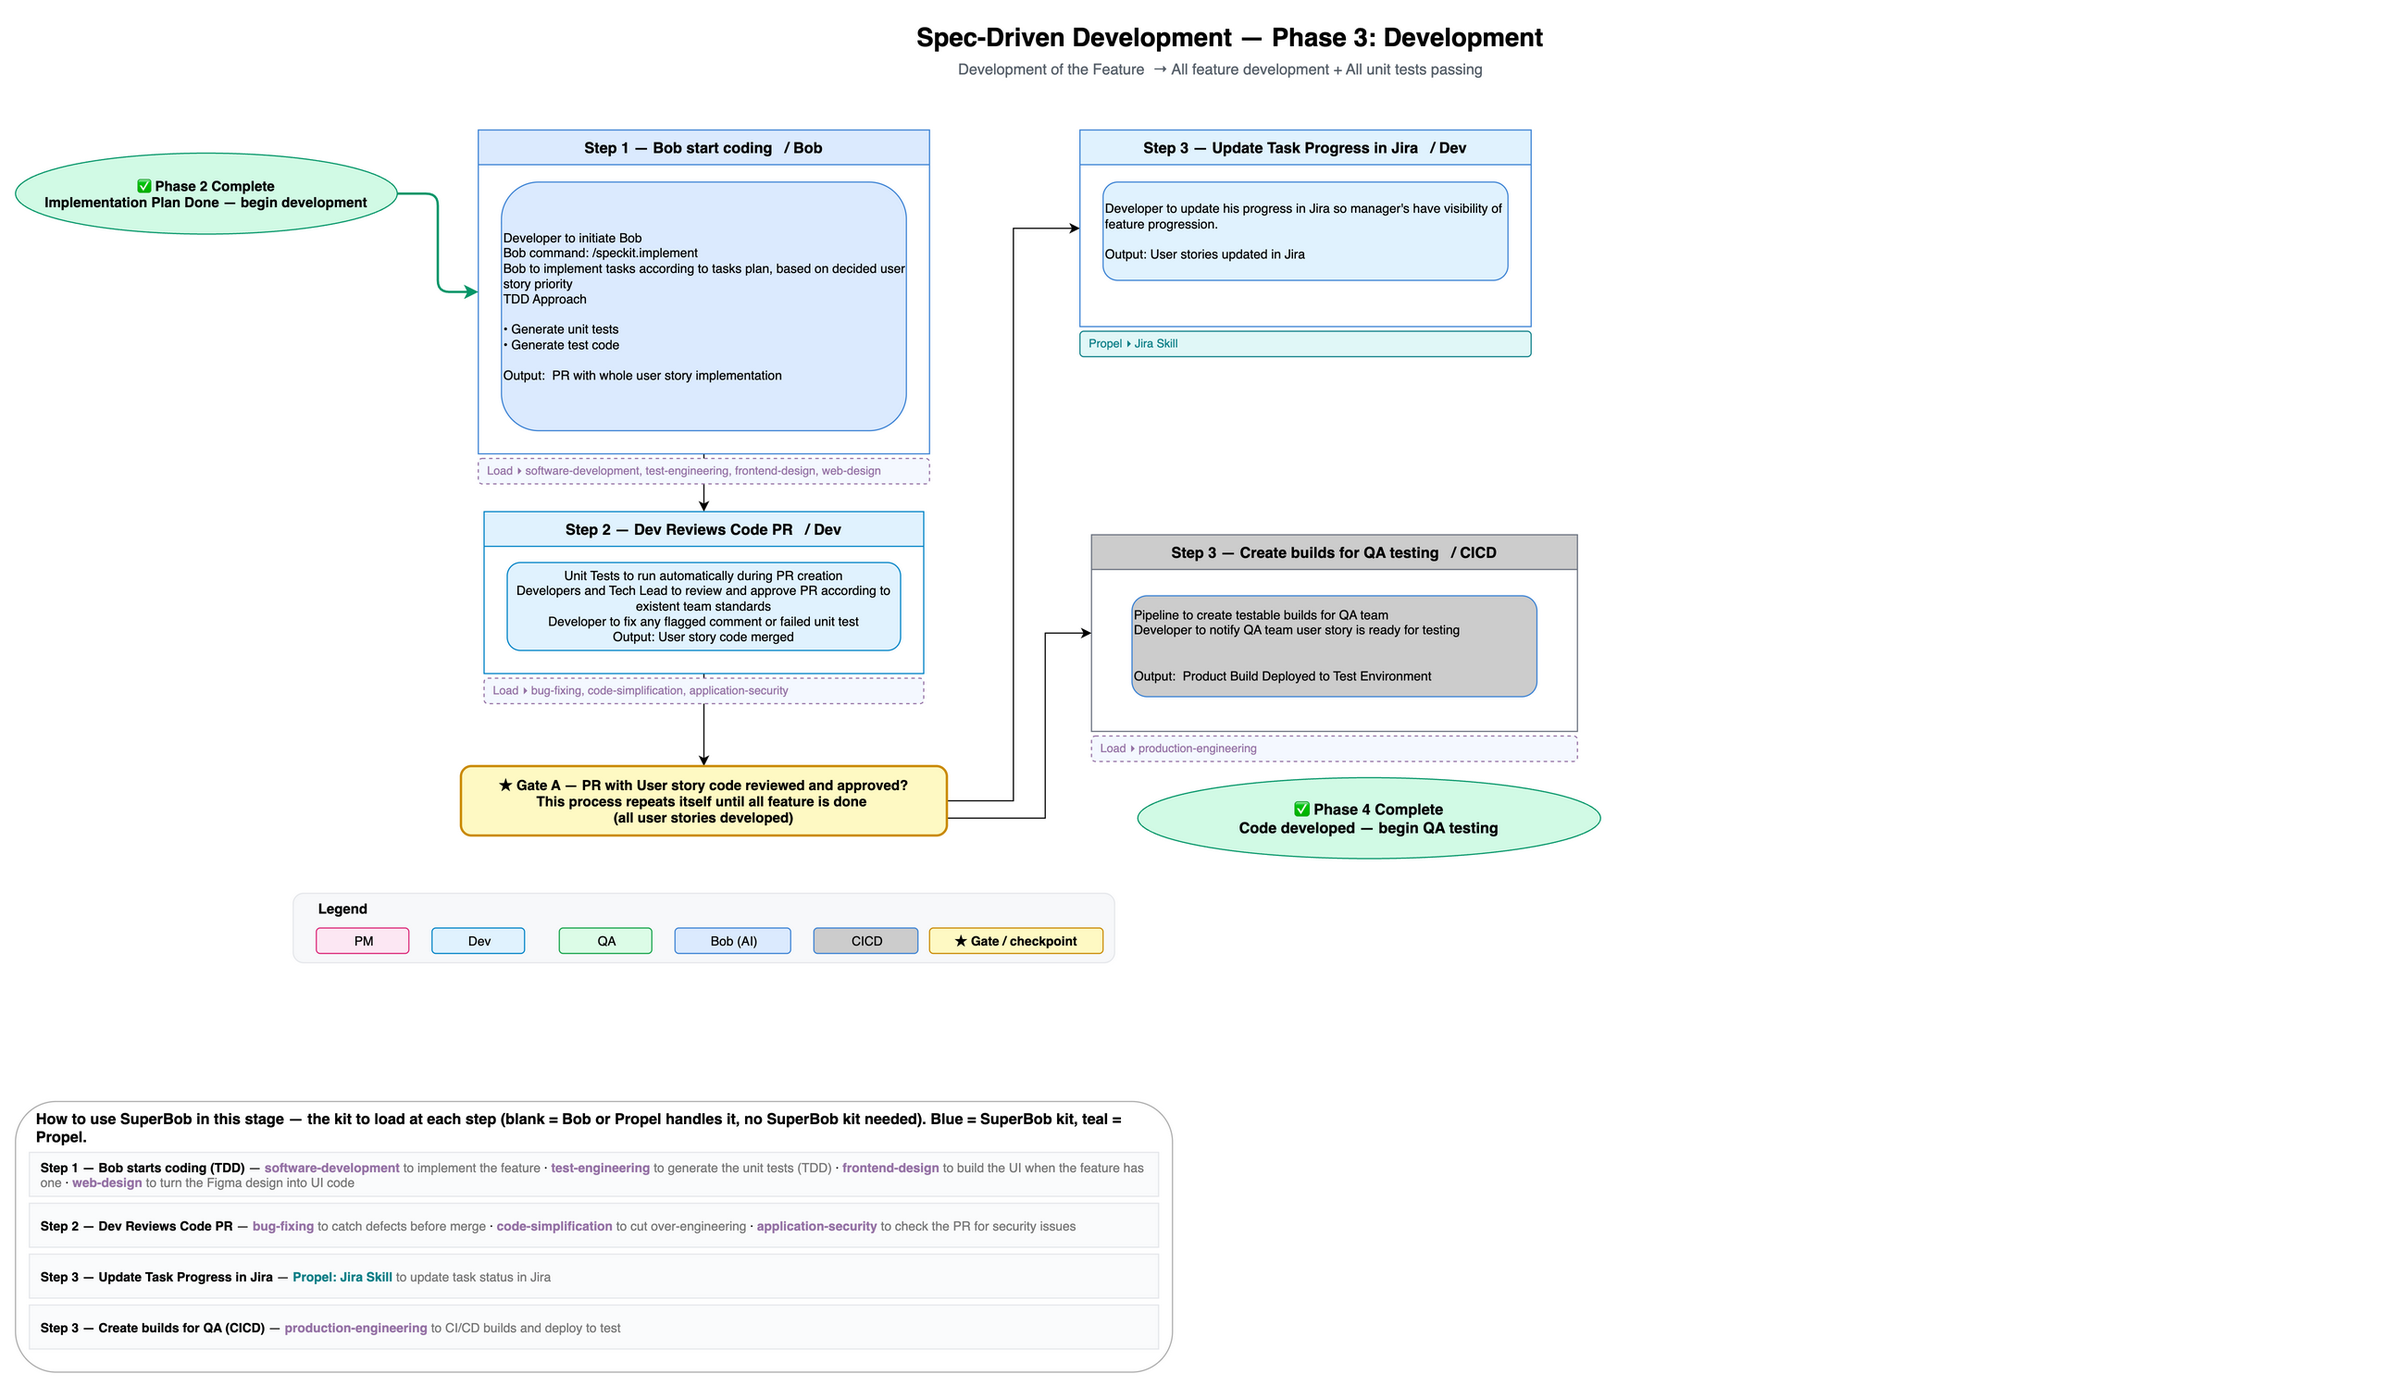
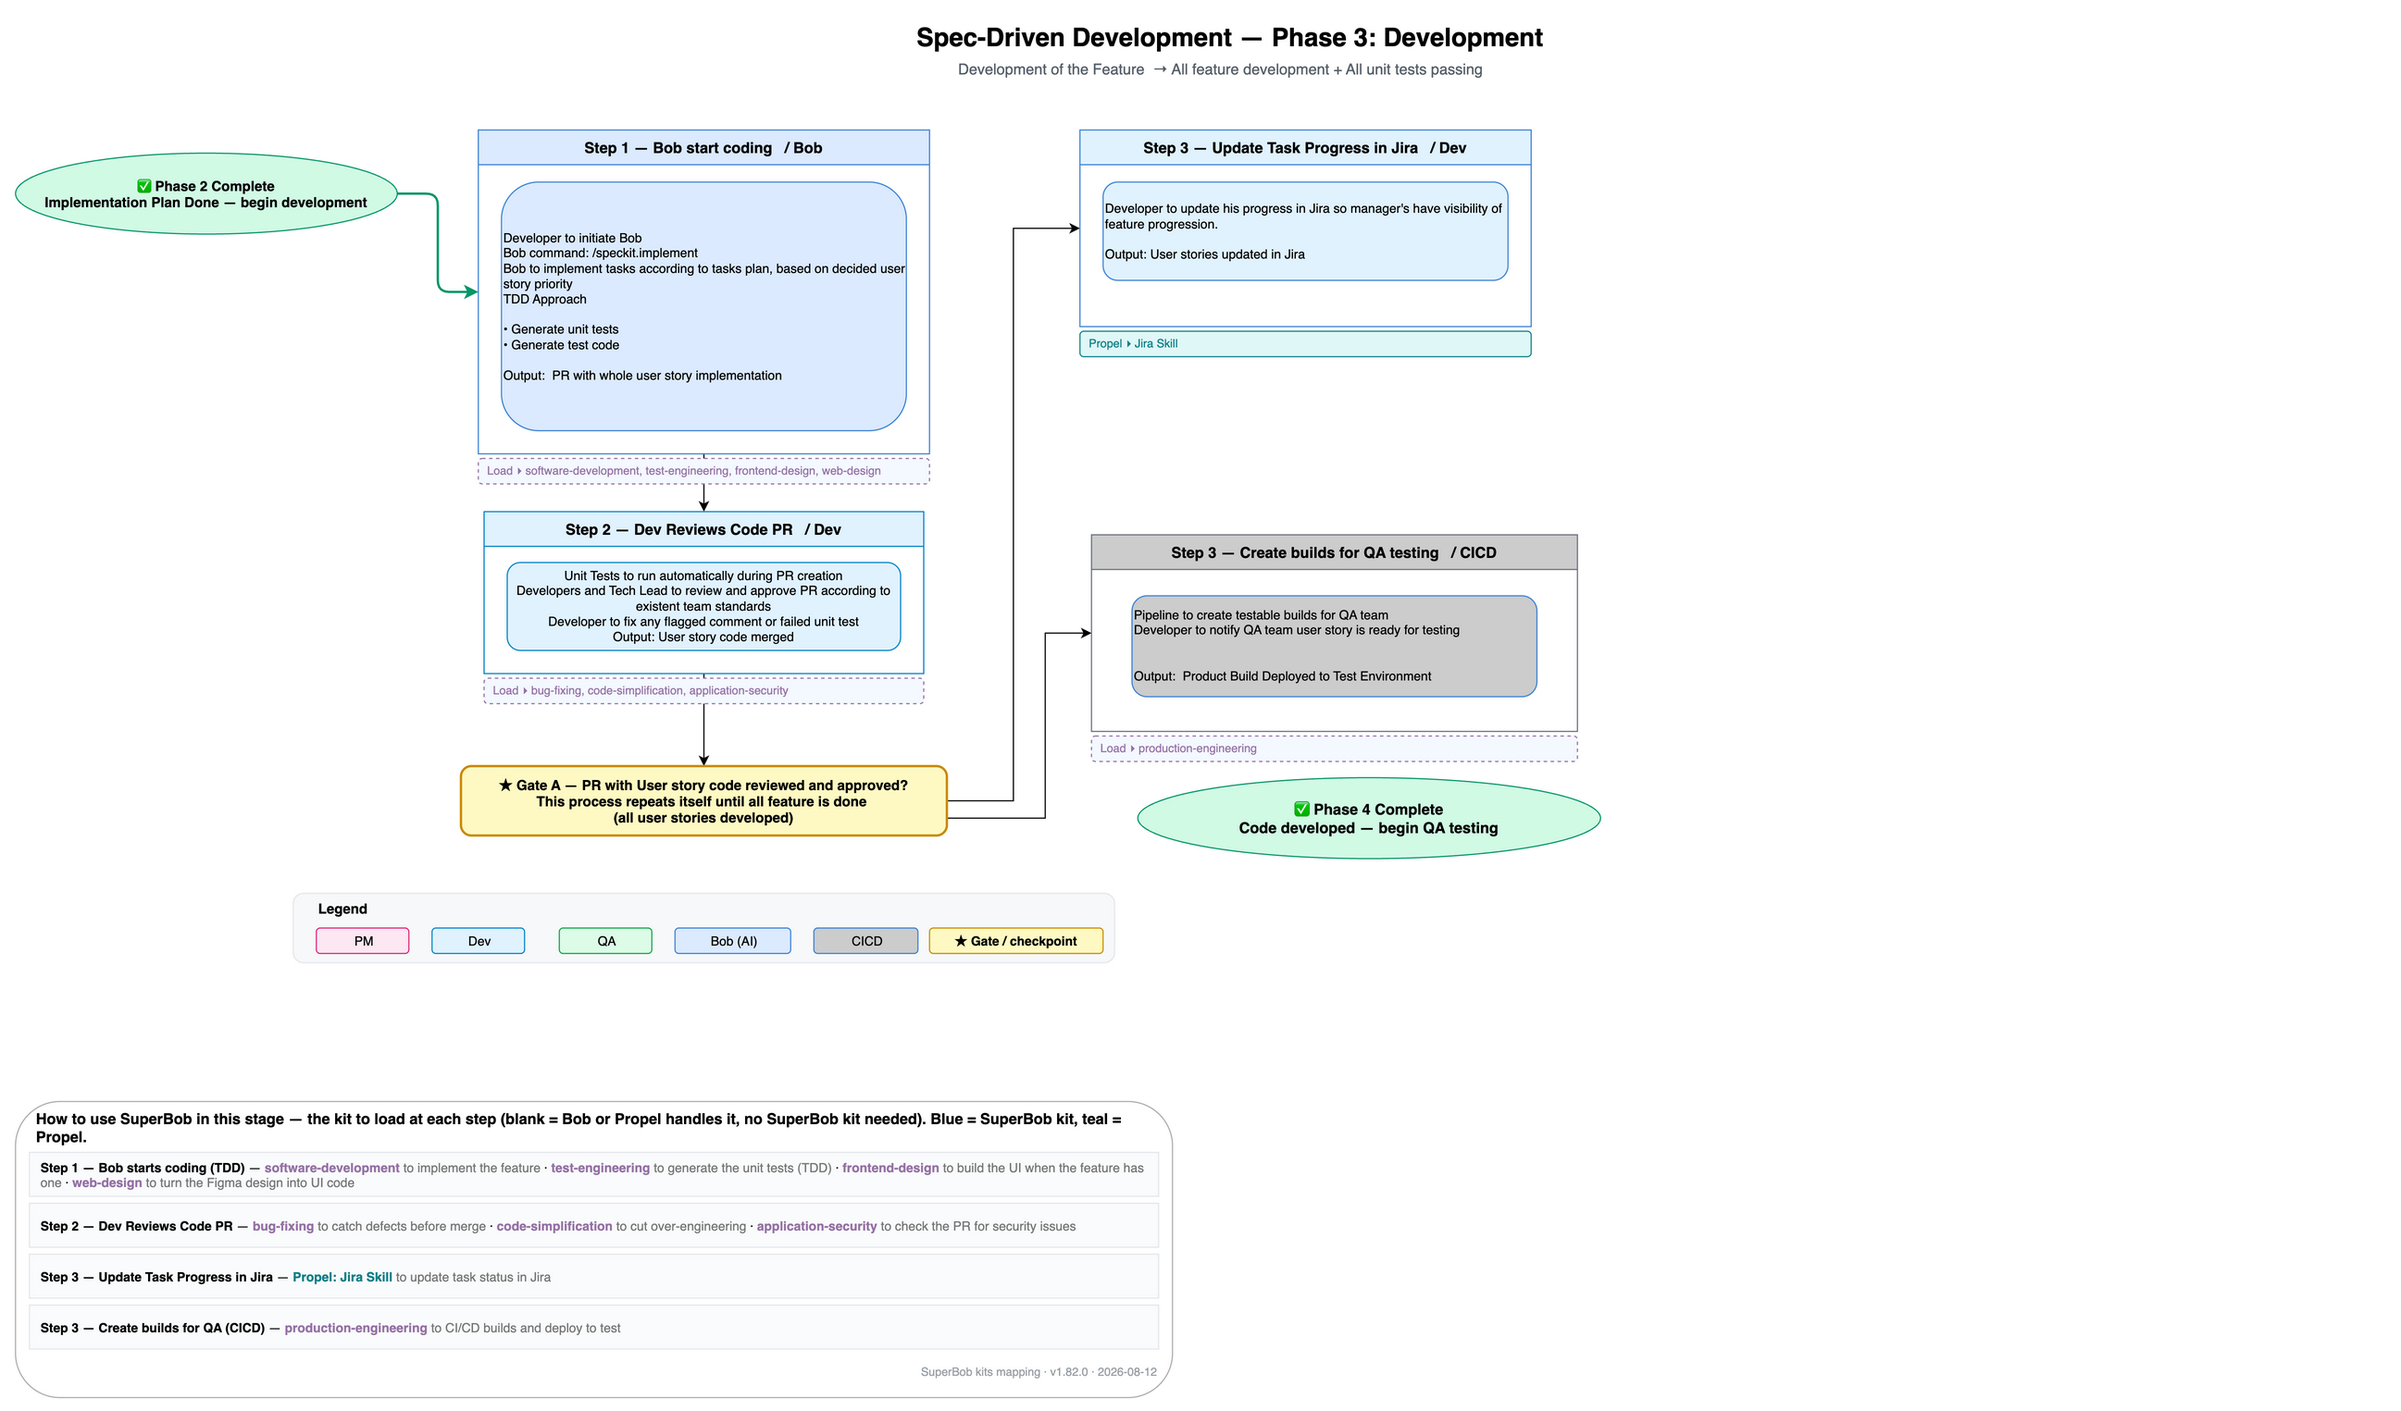
SuperBob: version-stamp the lifecycle diagram + 2 end-to-end overview tabs, v1.82.0
- Every diagram page now carries a version stamp (SuperBob kits mapping ·
  vX.Y.Z · date); the in-panel viewer header shows the version as a badge.
- Two new overview tabs show the process end-to-end:
    · Overview — Phases: Input → 5 colour-coded phases (purpose + output) →
      shipped feature.
    · Overview — Tools: matrix of every SuperBob kit (blue) and Propel tool
      (teal) used per phase, aggregated honestly from the step mapping.
  Both sort to the top of the viewer (00a/00b) and are the last two .drawio tabs.
- gen_kits_layer.py: takes version + date args, builds the stamp and both
  overview pages from the same mapping so they never drift.

diff --git a/superbob/vsix/extension/extension.js b/superbob/vsix/extension/extension.js
@@ -1414,6 +1414,8 @@ const DIAGRAM_DIR = () => path.join(HOME, '.bob', 'diagram');            // writ
 function bundledDiagramDir(context) { return path.join(context.extensionPath, 'diagram'); }
 // filename (without .png) -> friendly page title
 const DIAGRAM_TITLES = {
+  '00a-overview-phases': 'Overview — Phases (end-to-end)',
+  '00b-overview-tools': 'Overview — Tools (kits & Propel, end-to-end)',
   '01-phase1-spec-creation': 'Phase 1 — Spec Creation',
   '02-tooling-spec-creation': 'Tooling — Spec Creation',
   '03-phase2-implementation-planning': 'Phase 2 — Implementation Planning',
@@ -1439,12 +1441,14 @@ function openDiagramPanel(context) {
     const base = f.replace(/\.png$/, '');
     return { title: DIAGRAM_TITLES[base] || base, uri: diagramPanel.webview.asWebviewUri(vscode.Uri.file(path.join(pagesDir, f))).toString() };
   });
-  diagramPanel.webview.html = diagramHtml(diagramPanel.webview, imgs);
+  let ver = ''; try { ver = require(path.join(context.extensionPath, 'package.json')).version; } catch (e) {}
+  diagramPanel.webview.html = diagramHtml(diagramPanel.webview, imgs, ver);
   diagramPanel.webview.onDidReceiveMessage(m => handleMessage(m, context));
   diagramPanel.onDidDispose(() => { diagramPanel = null; }, null, context.subscriptions);
 }
-function diagramHtml(webview, imgs) {
+function diagramHtml(webview, imgs, ver) {
   const nonce = 'sbd' + Date.now();
+  const vlabel = ver ? ('v' + esc(ver)) : '';
   const pages = imgs.length ? imgs.map(im =>
     `<figure><figcaption>${esc(im.title)}</figcaption><img src="${im.uri}" alt="${esc(im.title)}"/></figure>`
   ).join('\n') : `<p class="muted">Diagram images were not found in this build.</p>`;
@@ -1453,6 +1457,7 @@ function diagramHtml(webview, imgs) {
 <style>
   body{font-family:var(--vscode-font-family);color:var(--vscode-foreground);margin:0;padding:22px 26px;line-height:1.5;font-size:14px}
   h1{font-size:1.4rem;margin:0 0 4px} .tag{color:var(--vscode-descriptionForeground);margin:0 0 14px}
+  .ver{font-size:.7rem;font-weight:600;color:var(--vscode-descriptionForeground);border:1px solid var(--vscode-widget-border,#444);border-radius:10px;padding:1px 8px;vertical-align:middle;margin-left:8px}
   .bar{display:flex;gap:8px;flex-wrap:wrap;align-items:center;margin:0 0 16px}
   button{font:inherit;padding:5px 11px;border-radius:6px;border:1px solid var(--vscode-button-border,transparent);background:var(--vscode-button-background);color:var(--vscode-button-foreground);cursor:pointer}
   button.sec{background:var(--vscode-button-secondaryBackground);color:var(--vscode-button-secondaryForeground)}
@@ -1464,8 +1469,8 @@ function diagramHtml(webview, imgs) {
   .note{background:var(--vscode-editorWidget-background);border-left:3px solid var(--vscode-charts-blue,#3794ff);border-radius:0 6px 6px 0;padding:9px 13px;margin:0 0 16px;font-size:13px}
   .muted{color:var(--vscode-descriptionForeground)}
 </style></head><body>
-  <h1>SuperBob across the delivery lifecycle</h1>
-  <p class="tag">The Spec-Driven Development flow, with the SuperBob kit to load at each step mapped in.</p>
+  <h1>SuperBob across the delivery lifecycle ${vlabel ? '<span class="ver">' + vlabel + '</span>' : ''}</h1>
+  <p class="tag">The Spec-Driven Development flow, with the SuperBob kit to load at each step mapped in. The two <b>Overview</b> pages up top show the whole process end-to-end — phases, then all kits &amp; tools.</p>
   <div class="bar">
     <button id="openFile">Open the editable .drawio ↗</button>
     <span class="legend"><span class="swatch" style="background:#f4f8ff;border-color:#6c8ebf"></span>blue dashed = SuperBob kit to load

diff --git a/superbob/tools/gen_kits_layer.py b/superbob/tools/gen_kits_layer.py
@@ -1,8 +1,20 @@
 import sys,re,html
 src,dst=sys.argv[1],sys.argv[2]
+VERSION=sys.argv[3] if len(sys.argv)>3 else '1.82.0'
+DATE=sys.argv[4] if len(sys.argv)>4 else '2026-08-12'
+STAMP=f'SuperBob kits mapping &#183; v{VERSION} &#183; {DATE}'
 xml=open(src,encoding='utf8').read()
 SBCOL={'Phase 1':'#6c8ebf','Phase 2':'#82b366','Phase 2.1':'#d79b00','Phase 3':'#9673a6','Phase 4':'#b85450'}
 PST='#0e8088'
+PORDER=['Phase 1','Phase 2','Phase 2.1','Phase 3','Phase 4']
+PNAME={'Phase 1':'Phase 1 — Spec Creation','Phase 2':'Phase 2 — Implementation Planning','Phase 2.1':'Phase 2.1 — QA Planning','Phase 3':'Phase 3 — Development','Phase 4':'Phase 4 — QA Test Execution'}
+PH_META={
+ 'Phase 1':('Turn a PM brief into a unified, dev + QA-approved spec via Bob interrogation.','Final Approved Spec'),
+ 'Phase 2':('Bob drafts the implementation plan; dev reviews; work is broken into Jira tasks.','Tasks in Jira'),
+ 'Phase 2.1':('QA agent drafts test plans & cases; QA reviews; uploaded to TestRail.','Test cases in TestRail'),
+ 'Phase 3':('Bob codes test-first; devs review PRs; CI/CD builds for QA.','Builds for QA'),
+ 'Phase 4':('Automated tests authored & run; devs fix failures; results logged.','Ship / no-ship decision'),
+}
 def pkey(name):
     n=name.lower()
     if 'spec creation' in n or name.startswith('Phase 1'): return 'Phase 1'
@@ -98,9 +110,9 @@ def proc(mm):
             if g: xs.append(g[0]); bt.append(g[1]+g[3])
     x0=int(min(xs)) if xs else 40
     y0=int(max(bt))+120 if bt else 40
-    W=1000; rowh=44; head=44
+    W=1000; rowh=44; head=44; foot=22
     Cm=[f'<mxCell id="{mLid}" value="How to use SuperBob" style="locked=0;" parent="{rootId}" />',
-        f'<mxCell id="{mLid}_bg" value="" style="rounded=1;fillColor=#ffffff;strokeColor=#999999;opacity=80;" vertex="1" parent="{mLid}"><mxGeometry x="{x0}" y="{y0}" width="{W}" height="{head+rowh*len(rules)+14}" as="geometry"/></mxCell>',
+        f'<mxCell id="{mLid}_bg" value="" style="rounded=1;fillColor=#ffffff;strokeColor=#999999;opacity=80;" vertex="1" parent="{mLid}"><mxGeometry x="{x0}" y="{y0}" width="{W}" height="{head+rowh*len(rules)+14+foot}" as="geometry"/></mxCell>',
         f'<mxCell id="{mLid}_h" value="How to use SuperBob in this stage — the kit to load at each step (blank = Bob or Propel handles it, no SuperBob kit needed).  Blue = SuperBob kit, teal = Propel." style="text;html=1;fontStyle=1;fontSize=13;align=left;verticalAlign=middle;whiteSpace=wrap;strokeColor=none;fillColor=none;" vertex="1" parent="{mLid}"><mxGeometry x="{x0+16}" y="{y0+8}" width="{W-32}" height="30" as="geometry"/></mxCell>']
     for i,(_,step,kits,prop) in enumerate(rules):
         ry=y0+head+i*rowh; parts=[]
@@ -110,7 +122,56 @@ def proc(mm):
         raw=f'<b>{step}</b> &#8212; {line}'
         val=html.escape(raw, quote=True)
         Cm.append(f'<mxCell id="{mLid}_r{i}" value="{val}" style="text;html=1;fontSize=11;align=left;verticalAlign=middle;whiteSpace=wrap;strokeColor=#e5e7eb;fillColor=#fafbfc;spacingLeft=8;spacingRight=8;spacingTop=2;" vertex="1" parent="{mLid}"><mxGeometry x="{x0+12}" y="{int(ry)}" width="{W-24}" height="{rowh-6}" as="geometry"/></mxCell>')
+    verY=y0+head+rowh*len(rules)+6
+    Cm.append(f'<mxCell id="{mLid}_ver" value="{STAMP}" style="text;html=1;fontSize=10;fontColor=#9aa0a6;align=right;verticalAlign=middle;strokeColor=none;fillColor=none;" vertex="1" parent="{mLid}"><mxGeometry x="{x0+12}" y="{int(verY)}" width="{W-24}" height="16" as="geometry"/></mxCell>')
     layer='\n        '+'\n        '.join(S+P+Cm)+'\n      '
     return f'{openTag}{re.sub(r"</root>",layer+"</root>",body,count=1)}</diagram>'
-open(dst,'w',encoding='utf8').write(re.sub(r'(<diagram[^>]*name=")([^"]*)("[^>]*>)(.*?)</diagram>', proc, xml, flags=re.S))
-print("wrote:",dst,"| pages:",pi[0])
+def agg(pk):
+    kits=[]; props=[]
+    for (_,_,ks,ps) in M[pk]:
+        for k,_ in ks:
+            if k not in kits: kits.append(k)
+        for k,_ in ps:
+            if k not in props: props.append(k)
+    return kits,props
+def E(raw): return html.escape(raw, quote=True)
+def phases_page():
+    c=['<mxCell id="0"/>','<mxCell id="1" parent="0"/>']
+    c.append(f'<mxCell id="t" value="{E("Spec-Driven Development — End-to-End Phases")}" style="text;html=1;fontStyle=1;fontSize=20;align=center;" vertex="1" parent="1"><mxGeometry x="40" y="22" width="1620" height="32" as="geometry"/></mxCell>')
+    c.append(f'<mxCell id="ts" value="{E("Input → five phases → shipped feature. Each phase output feeds the next. Colour = phase.")}" style="text;html=1;fontSize=13;fontColor=#666;align=center;" vertex="1" parent="1"><mxGeometry x="40" y="56" width="1620" height="22" as="geometry"/></mxCell>')
+    y=140; h=155; bw=220; gap=40; x=40
+    c.append(f'<mxCell id="in" value="{E("<b>Input</b><br>Jira Capability")}" style="rounded=1;whiteSpace=wrap;html=1;fillColor=#f5f5f5;strokeColor=#999999;fontSize=12;" vertex="1" parent="1"><mxGeometry x="{x}" y="{y+48}" width="120" height="60" as="geometry"/></mxCell>')
+    prev='in'; x+=120+gap
+    for i,pk in enumerate(PORDER):
+        col=SBCOL[pk]; purpose,output=PH_META[pk]; pid=f'p{i}'
+        raw=f'<b><font color="{col}">{PNAME[pk]}</font></b><br><br>{purpose}<br><br><b>&#8594; {output}</b>'
+        c.append(f'<mxCell id="{pid}" value="{E(raw)}" style="rounded=1;whiteSpace=wrap;html=1;fillColor=#ffffff;strokeColor={col};fontSize=12;align=left;spacingLeft=10;spacingRight=10;verticalAlign=top;spacingTop=10;" vertex="1" parent="1"><mxGeometry x="{x}" y="{y}" width="{bw}" height="{h}" as="geometry"/></mxCell>')
+        c.append(f'<mxCell id="e{i}" style="edgeStyle=orthogonalEdgeStyle;html=1;rounded=0;strokeColor=#999999;endArrow=block;endFill=1;" edge="1" parent="1" source="{prev}" target="{pid}"><mxGeometry relative="1" as="geometry"/></mxCell>')
+        prev=pid; x+=bw+gap
+    c.append(f'<mxCell id="out" value="{E("<b>Shipped</b><br>Feature")}" style="rounded=1;whiteSpace=wrap;html=1;fillColor=#d5e8d4;strokeColor=#82b366;fontSize=12;" vertex="1" parent="1"><mxGeometry x="{x}" y="{y+48}" width="120" height="60" as="geometry"/></mxCell>')
+    c.append(f'<mxCell id="eout" style="edgeStyle=orthogonalEdgeStyle;html=1;strokeColor=#999999;endArrow=block;endFill=1;" edge="1" parent="1" source="{prev}" target="out"><mxGeometry relative="1" as="geometry"/></mxCell>')
+    c.append(f'<mxCell id="ver" value="{STAMP}" style="text;html=1;fontSize=10;fontColor=#9aa0a6;align=right;" vertex="1" parent="1"><mxGeometry x="40" y="{y+h+34}" width="1620" height="16" as="geometry"/></mxCell>')
+    return '<diagram name="Overview — Phases" id="ov-phases"><mxGraphModel dx="1600" dy="900" grid="0" gridSize="10" guides="1" tooltips="1" connect="1" arrows="1" fold="1" page="1" pageScale="1" pageWidth="1700" pageHeight="560" math="0" shadow="0"><root>'+''.join(c)+'</root></mxGraphModel></diagram>'
+def tools_page():
+    c=['<mxCell id="0"/>','<mxCell id="1" parent="0"/>']
+    c.append(f'<mxCell id="t" value="{E("Tooling Across the Lifecycle — Kits & Tools End to End")}" style="text;html=1;fontStyle=1;fontSize=20;align=center;" vertex="1" parent="1"><mxGeometry x="40" y="22" width="1460" height="32" as="geometry"/></mxCell>')
+    c.append(f'<mxCell id="ts" value="{E("Every SuperBob kit (blue) and Propel tool (teal) a team loads at each phase. Blank = handled by Bob / Propel, no kit needed.")}" style="text;html=1;fontSize=13;fontColor=#666;align=center;" vertex="1" parent="1"><mxGeometry x="40" y="56" width="1460" height="22" as="geometry"/></mxCell>')
+    X0=40; wP=240; wK=740; wR=480; hy=100; hh=32
+    def cell(cid,x,w,y,ht,val,style): c.append(f'<mxCell id="{cid}" value="{val}" style="{style}" vertex="1" parent="1"><mxGeometry x="{x}" y="{y}" width="{w}" height="{ht}" as="geometry"/></mxCell>')
+    hs='text;html=1;fontStyle=1;fontSize=12;align=left;verticalAlign=middle;fillColor=#eef1f5;strokeColor=#c8ccd2;spacingLeft=10;'
+    cell('h0',X0,wP,hy,hh,E("Phase"),hs); cell('h1',X0+wP,wK,hy,hh,E("SuperBob kits used"),hs); cell('h2',X0+wP+wK,wR,hy,hh,E("Propel tools used"),hs)
+    y=hy+hh
+    for i,pk in enumerate(PORDER):
+        col=SBCOL[pk]; kits,props=agg(pk); rh=90
+        cell(f'pr{i}',X0,wP,y,rh,E(f'<b><font color="{col}">{PNAME[pk]}</font></b>'),f'text;html=1;fontSize=12;align=left;verticalAlign=top;whiteSpace=wrap;fillColor=#ffffff;strokeColor=#e5e7eb;spacingLeft=10;spacingTop=8;')
+        kraw=' &#183; '.join(f'<b><font color="{col}">{k}</font></b>' for k in kits) if kits else '<font color="#999">—</font>'
+        cell(f'kr{i}',X0+wP,wK,y,rh,E(kraw),'text;html=1;fontSize=12;align=left;verticalAlign=top;whiteSpace=wrap;fillColor=#f8faff;strokeColor=#e5e7eb;spacingLeft=10;spacingTop=8;')
+        praw=' &#183; '.join(f'<b><font color="{PST}">{k}</font></b>' for k in props) if props else '<font color="#999">— (Bob / Propel handles it)</font>'
+        cell(f'rr{i}',X0+wP+wK,wR,y,rh,E(praw),'text;html=1;fontSize=12;align=left;verticalAlign=top;whiteSpace=wrap;fillColor=#e0f7f710;strokeColor=#e5e7eb;spacingLeft=10;spacingTop=8;')
+        y+=rh
+    c.append(f'<mxCell id="ver" value="{STAMP}" style="text;html=1;fontSize=10;fontColor=#9aa0a6;align=right;" vertex="1" parent="1"><mxGeometry x="{X0}" y="{y+16}" width="{wP+wK+wR}" height="16" as="geometry"/></mxCell>')
+    return '<diagram name="Overview — Tools" id="ov-tools"><mxGraphModel dx="1500" dy="900" grid="0" gridSize="10" guides="1" tooltips="1" connect="1" arrows="1" fold="1" page="1" pageScale="1" pageWidth="1560" pageHeight="640" math="0" shadow="0"><root>'+''.join(c)+'</root></mxGraphModel></diagram>'
+out=re.sub(r'(<diagram[^>]*name=")([^"]*)("[^>]*>)(.*?)</diagram>', proc, xml, flags=re.S)
+out=out.replace('</mxfile>', phases_page()+tools_page()+'</mxfile>')
+open(dst,'w',encoding='utf8').write(out)
+print("wrote:",dst,"| phase/tool pages stamped v"+VERSION+" | mapped pages:",pi[0],"| +2 overview pages")
